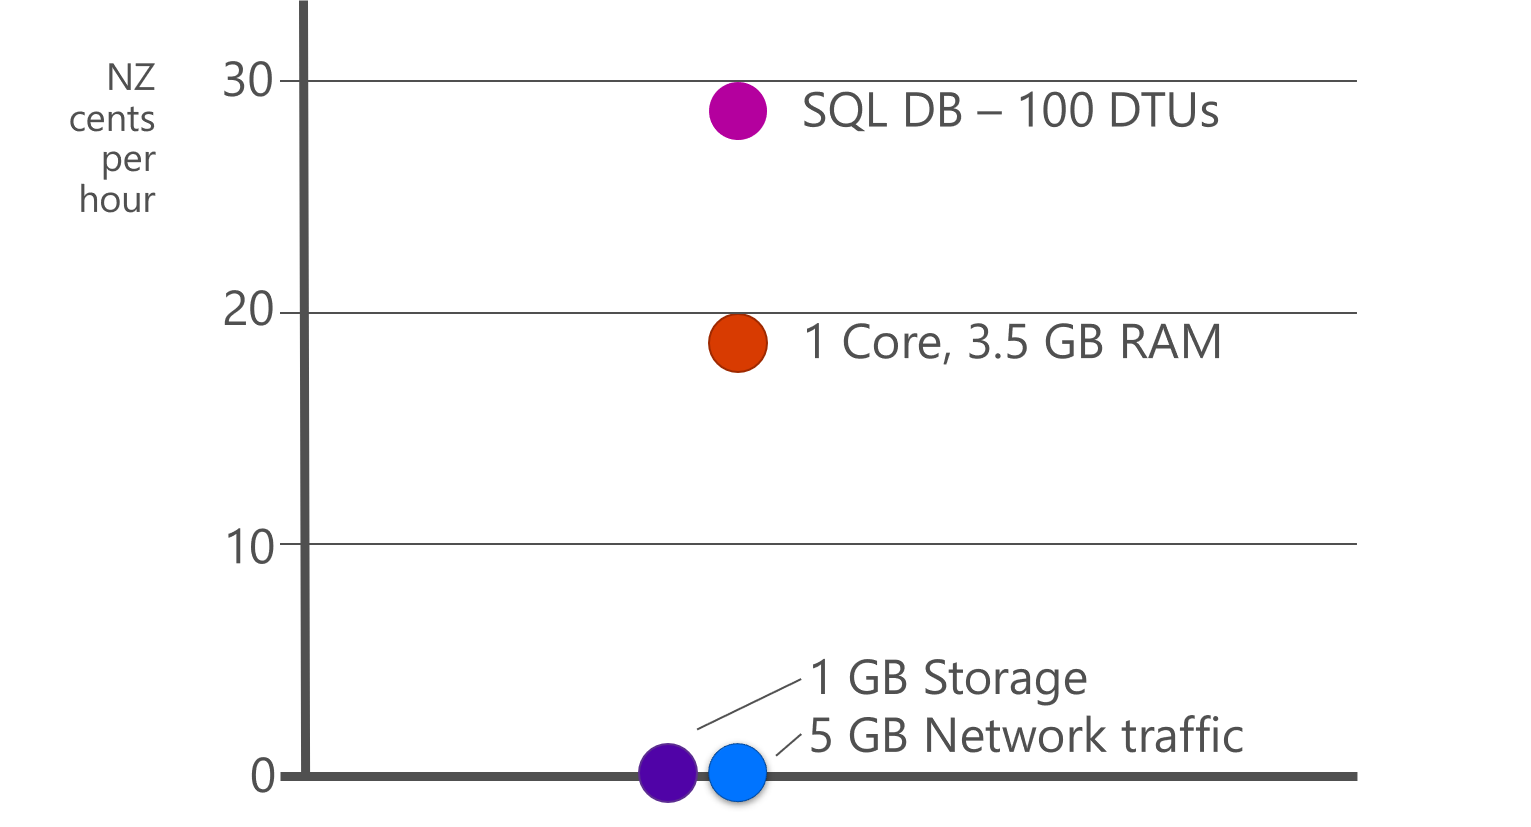
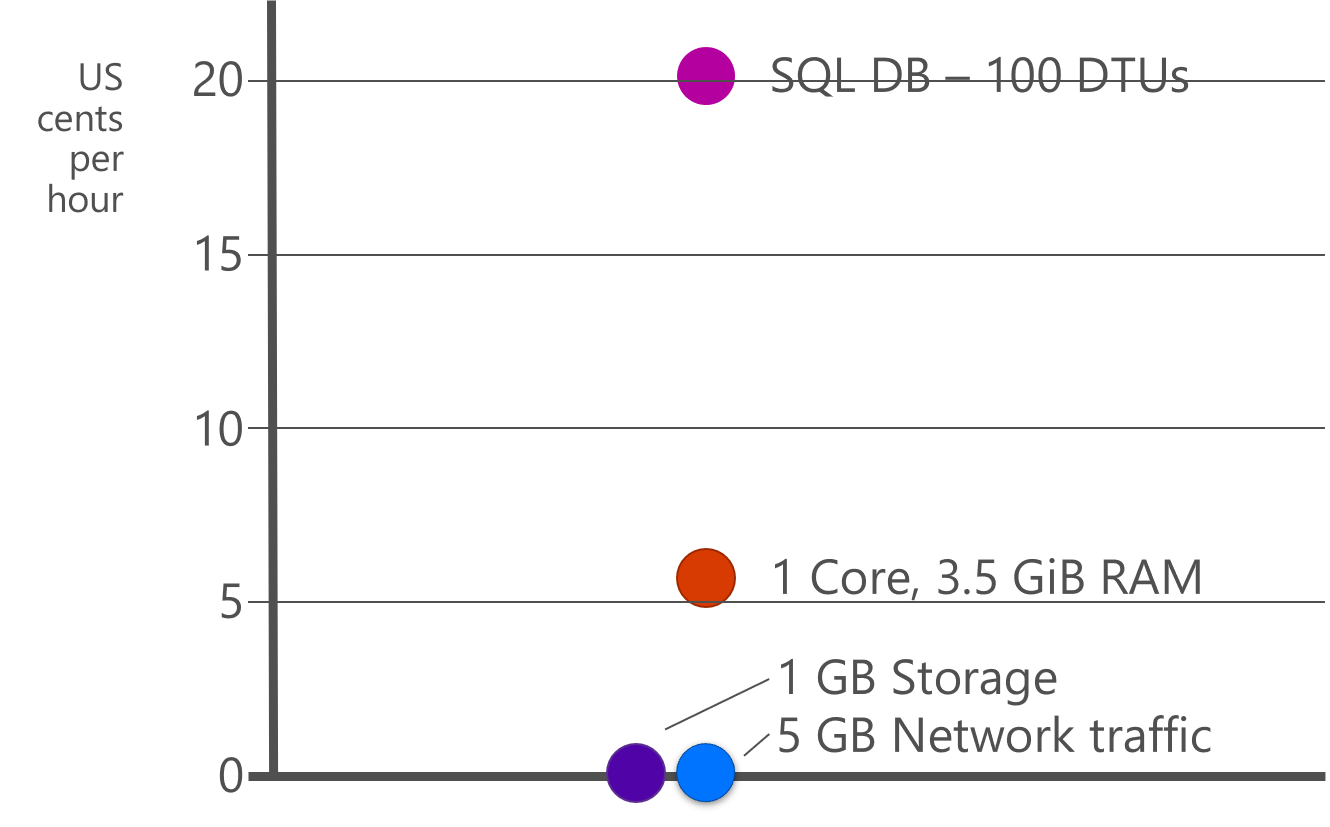
Update fundamentals page

diff --git a/docs/cloud-fundamentals.md b/docs/cloud-fundamentals.md
@@ -4,8 +4,8 @@
 
 Digital transformation has driven incredible demand for services and the servers that host them. The
 cloud is essentially a solution to problems of economics and scale in server hosting. As a result of
-the change in scale, we need to design and architect our systems a little differently so that we can
-make the most of the infrastructure available.
+the change in scale, we need to design and architect our systems specifically so that we can make
+the most of the infrastructure available.
 
 The cloud has changed the way we think about architecting solutions. Cloud providers like Azure have
 enormous pools of compute resources and storage, vast global networks, and handle a significant
@@ -20,24 +20,53 @@ a fixed lifetime - usually three to five years - before being decommissioned and
 required capital expenditure of fixed cost, and the asset values depreciated over time. Traditional
 hosting models also favoured manual operations and often had fairly relaxed security.
 
-Virtualisation helped to get a bit more efficient use of our infrastructure, since we could
-provision capacity and spread it across multiple workloads. But for most companies it was
-challenging to achieve optimal density of VMs to hosts due to the
-[knapsack problem](https://en.wikipedia.org/wiki/Knapsack_problem). Scaling VMs up often requires
+Virtualisation helped to get more efficient use of our infrastructure, since we could provision
+capacity and spread it across multiple workloads. But for most companies it was challenging to
+achieve optimal density of VMs to hosts due to the [knapsack problem]. Scaling VMs up often requires
 even more infrastructure to be provisioned.
 
 The cloud is essentially a hyperscale virtualisation environment. Cloud regions (comprised of
 multiple datacentres) can host millions of cores and petabytes of RAM and storage. As there are so
-many resources available, the law of large numbers dictates that the we can achieve better density
-and can generally have a much better chance of fulfilling scale requests. The economies of scale
-also mean that the average marginal cost (of additional CPU/RAM/storage) can often be much lower in
-the cloud.
+many resources available, the law of large numbers dictates that we can achieve better density and
+can generally have a much better chance of fulfilling scale requests. The economies of scale also
+mean that the average marginal cost (of additional CPU/RAM/storage) can often be much lower in the
+cloud.
 
 ### Relative cost of resources
 
-TODO
+Different types of resources have very different pricing models. Consider four common types of
+resources used in many cloud-hosted applications:
 
-![Relative cost of resources](./images/relative-costs.png)
+* Network traffic. Azure typically does not charge for traffic entering our regions (ingress) but
+  does charge for traffic as it leaves (egresses) our regions.
+* Storage. There are a number of different storage options for different storage profiles.
+* Compute. There are a large number of options for types of VMs available depending on the feature
+  set and resource profile required.
+* A SQL database, which includes storage, compute, and networking as part of its implementation.
+
+We can compare the relative costs of some entry-level resource profiles for each of these resource
+types:
+
+![Relative cost of resources](./images/relative-costs.png)<br/>_Figure: Relative cost (approximate)
+of resources in Azure._
+
+These prices are not expensive in absolute terms, but the explicit pricing models mean that we can
+track our expenditure on different resources and ensure we are using them as efficiently as
+possible.
+
+This is particularly important when we operate at high scale. Large software vendors (e.g.
+Microsoft, Google, and Facebook) make use of architectures and patterns that favour less expensive
+resources while still achieving massive scale. We can use similar practices to optimise the
+selection of technologies to suit the cloud pricing models.
+
+> 📖 Read more in [Azure Well-Architected Framework - Maximize efficiency of cloud spend]
+> (Microsoft Learn)
+
+### Cloud models
+
+TODO
+Self-managed vs. managed, IaaS/PaaS/serverless
+Consider the TCO - the cloud vendor is taking a lot of the work away from you
 
 ## Elasticity
 
@@ -59,11 +88,12 @@ cloud:
   times while not wasting resources the rest of the time. The elasticity of the cloud allows for the
   necessary resources to be provisioned when needed and then deprovisioned.
 
-![Relative cost of resources](./images/cloud-computing-patterns.png)
+![Cloud computing patterns](./images/cloud-computing-patterns.png)<br/>_Figure: Common workload
+patterns for the cloud._
 
-Each of these take advantage of **elasticity** - the large pool of resources means that new
-resources can be rapidly provisioned when they are required, used for as long as they are needed,
-and then deprovisioned.
+Each of these take advantage of **elasticity** - the ability to rapidly provision new resources.
+The large pool of resources made available by cloud providers means that new resources can be
+provisioned when they are required, used for as long as they are needed, and then deprovisioned.
 
 By taking advantage of elasticity you can keep your costs low initially as you build out your
 user base, while also rapidly responding to an influx of traffic or activity.
@@ -73,31 +103,37 @@ To make the most of the elasticity provided by the cloud there are a few things 
   around and don't have to pin specific requests to specific compute instances.
 * Avoid having bottlenecks that might inhibit your ability to scale out quickly.
 * Loosely couple your components so that you can scale each part of your solution independently.
+* Configure [auto-scaling] on your resources so that you can quickly scale even with unpredictable
+  bursting.
 
-TODO
-https://docs.microsoft.com/en-us/azure/architecture/best-practices/auto-scaling
-https://docs.microsoft.com/en-us/azure/architecture/guide/design-principles/scale-out
+> 📖 Read more in [Azure Architecture Guide - Design to scale out]
 
 ## Loose coupling
 Any non-trivial solution will be made up of multiple components that work together. The
 communication and coupling between these components matters a great deal.
 
-Synchronous communication is often the simplest approach to implement. It also is typically more
+Synchronous communication is often the simplest approach to implement. It also is typically very
 performant, since messages are sent directly from point to point. This can be a good approach for
 simpler systems, or for communicating between two parts of a solution that are highly
 interdependent - for example, talking from an application to a database or cache.
 
 However, in some situations tight coupling will lead to problems. Any downstream delays, failures,
-or bottlenecks can cause your entire solution's performance to be degraded. Tightly coupling
-components together also means you often can't easily take advantage of horizontal scaling.
+or bottlenecks can cause your entire solution's performance to be degraded. Also, tight coupling
+means that the sender needs to know the exact location to send a request to (e.g. an IP address,
+port, or hostname). If we are using horizontal scaling in our solution then it can be difficult to
+keep track of which compute nodes might currently be running the component we need to talk to.
 
-Loose coupling, on the other hand, requires asynchronous communication. It often involves 
-message brokers like Service Bus. Instead of sending requests directly between systems, the sender
-instead send a message to a broker, and the destination system subscribes to the broker and
-receive its instructions on what to do. Alternatively, eventing can be used for components to 
-publish information about actions that have taken place into a central broker, and other components
-can listen to the events coming from that broker events and decide when they might need to take
-action. 
+Loose coupling, on the other hand, typically involves asynchronous communication. It often makes
+use of message brokers like Service Bus. Instead of sending requests directly between systems, the
+sender might instead sends a message to a broker and the destination system subscribes to the same
+broker. Messages are delivered through the broker, and regardless of how many instances of the
+sender or receiver there may be, the broker will handle reliable delivery to the correct recipients.
+One example of this type of design is the [Web-Queue-Worker architecture style].
+
+Another alternative, the [event-driven architecture style], can be used for components to publish
+information about actions that have taken place into a central event store. Other components can
+listen to the events coming from that store, and can decide independently when they might want to
+take action.
 
 Loose coupling has some important benefits for resiliency and elasticity.
 * **Resiliency:** loose coupling means there is a buffer between your solution components to
@@ -106,10 +142,7 @@ Loose coupling has some important benefits for resiliency and elasticity.
   additional compute workers and removing unnecessary compute workers can be achieved without
   upstream systems needing to be aware of the scaling.
 
-TODO
-* https://docs.microsoft.com/en-us/azure/architecture/guide/design-principles/minimize-coordination
-* https://docs.microsoft.com/en-us/azure/architecture/guide/architecture-styles/event-driven
-* https://docs.microsoft.com/en-us/azure/architecture/guide/architecture-styles/web-queue-worker
+> 📖 Read more in [Application Architecture Guide - Minimize coordination]
 
 ## Eventual consistency
 
@@ -153,3 +186,10 @@ https://docs.microsoft.com/en-us/azure/architecture/best-practices/data-partitio
 [prev]:./requirements.md
 [home]:/README.md
 [next]:./cloud-design-patterns.md
+[Knapsack problem]:https://en.wikipedia.org/wiki/Knapsack_problem
+[Azure Well-Architected Framework - Maximize efficiency of cloud spend]:https://docs.microsoft.com/en-us/learn/modules/azure-well-architected-cost-optimization/5-maximize-efficiency-of-cloud-spend
+[auto-scaling]: https://docs.microsoft.com/en-us/azure/architecture/best-practices/auto-scaling
+[Azure Architecture Guide - Design to scale out]:https://docs.microsoft.com/en-us/azure/architecture/guide/design-principles/scale-out
+[Application Architecture Guide - Minimize coordination]:https://docs.microsoft.com/en-us/azure/architecture/guide/design-principles/minimize-coordination
+[Event-driven architecture style]:https://docs.microsoft.com/en-us/azure/architecture/guide/architecture-styles/event-driven
+[Web-Queue-Worker architecture style]:https://docs.microsoft.com/en-us/azure/architecture/guide/architecture-styles/web-queue-worker
